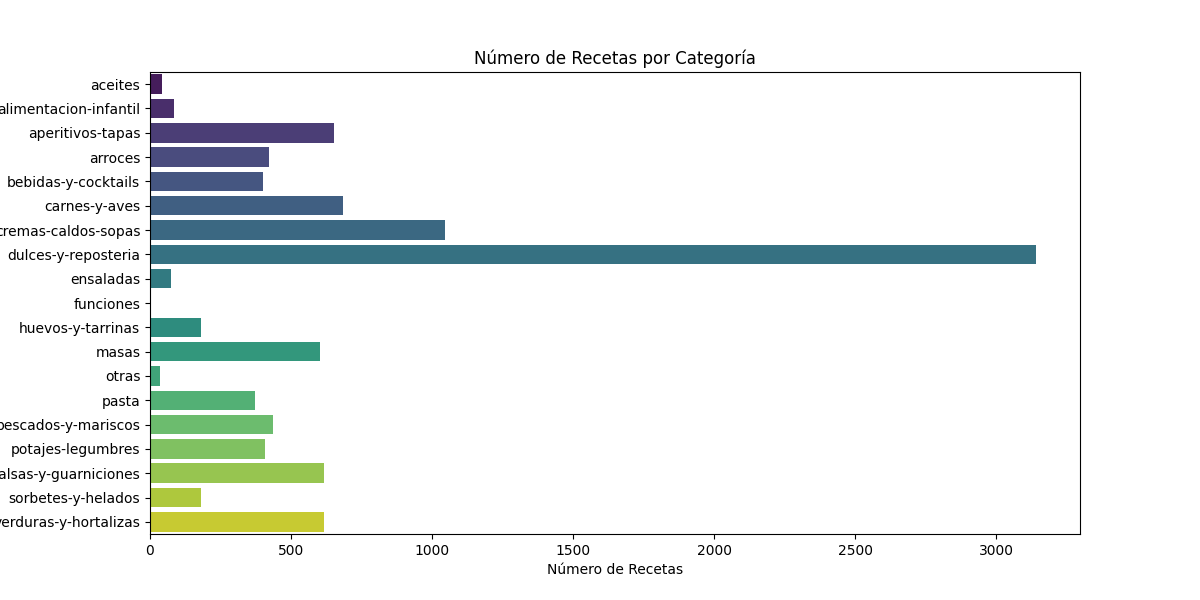
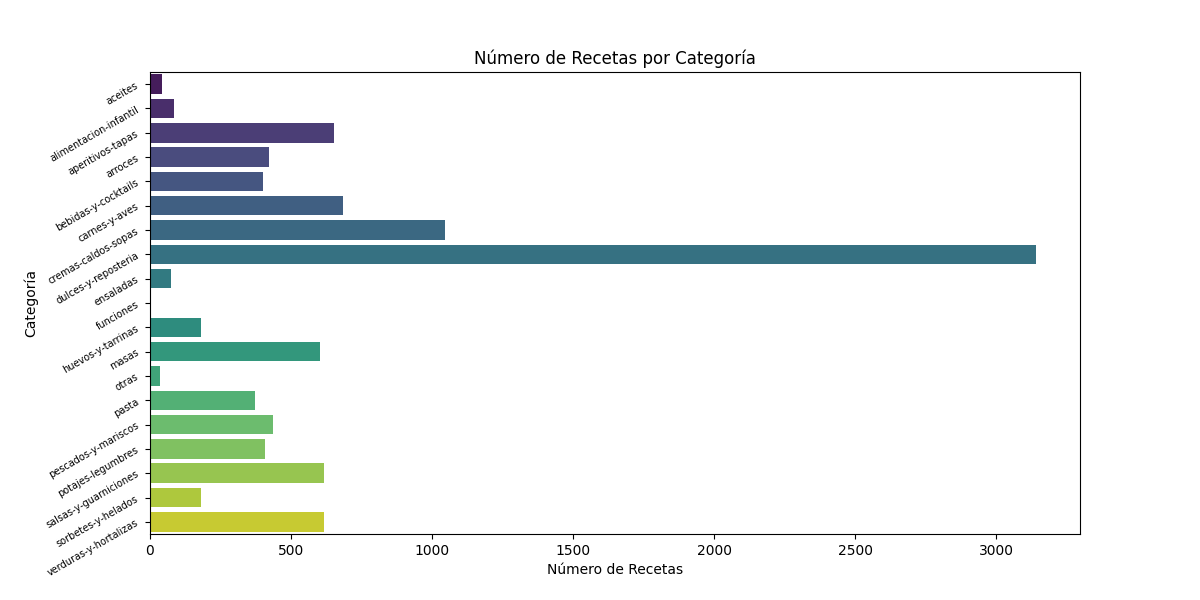
size adjust

Changed region(s): [[0.0, 0.12, 0.1233, 0.93], [0.0308, 0.93, 0.0617, 0.96]]

diff --git a/scatter_2.py b/scatter_2.py
@@ -17,7 +17,8 @@ df_ingredients = pd.read_sql(query, engine)
 # Crear gráfico de barras
 plt.figure(figsize=(10, 5))
 sns.barplot(x=df_ingredients["num_ingredients"], y=df_ingredients["recipe_id"], palette="coolwarm")
-
+plt.yticks(rotation=30)
+plt.yticks(fontsize=6)
 plt.xlabel("Número de Ingredientes")
 plt.ylabel("Receta")
 plt.title("Top 10 Recetas con Más Ingredientes")

diff --git a/scatter_3.py b/scatter_3.py
@@ -17,7 +17,8 @@ df_cat = pd.read_sql(query, engine)
 # Crear gráfico de barras
 plt.figure(figsize=(12, 6))
 sns.barplot(x=df_cat["total"], y=df_cat["category_id"], palette="viridis")
-
+plt.yticks(rotation=30)
+plt.yticks(fontsize=7)
 plt.xlabel("Número de Recetas")
 plt.ylabel("Categoría")
 plt.title("Número de Recetas por Categoría")

diff --git a/scatter_4.py b/scatter_4.py
@@ -16,9 +16,10 @@ df = pd.read_sql(query, engine)
 
 
 # Crear el gráfico de barras
-plt.figure(figsize=(10, 6))
+plt.figure(figsize=(10, 8))
 plt.bar(df["recipe_id"], df["calories"], color="skyblue", alpha=0.7)
-plt.xticks(rotation=90)
+plt.xticks(rotation=30)
+plt.xticks(fontsize=6)
 
 # Etiquetas y título
 plt.xlabel("Recetas")
